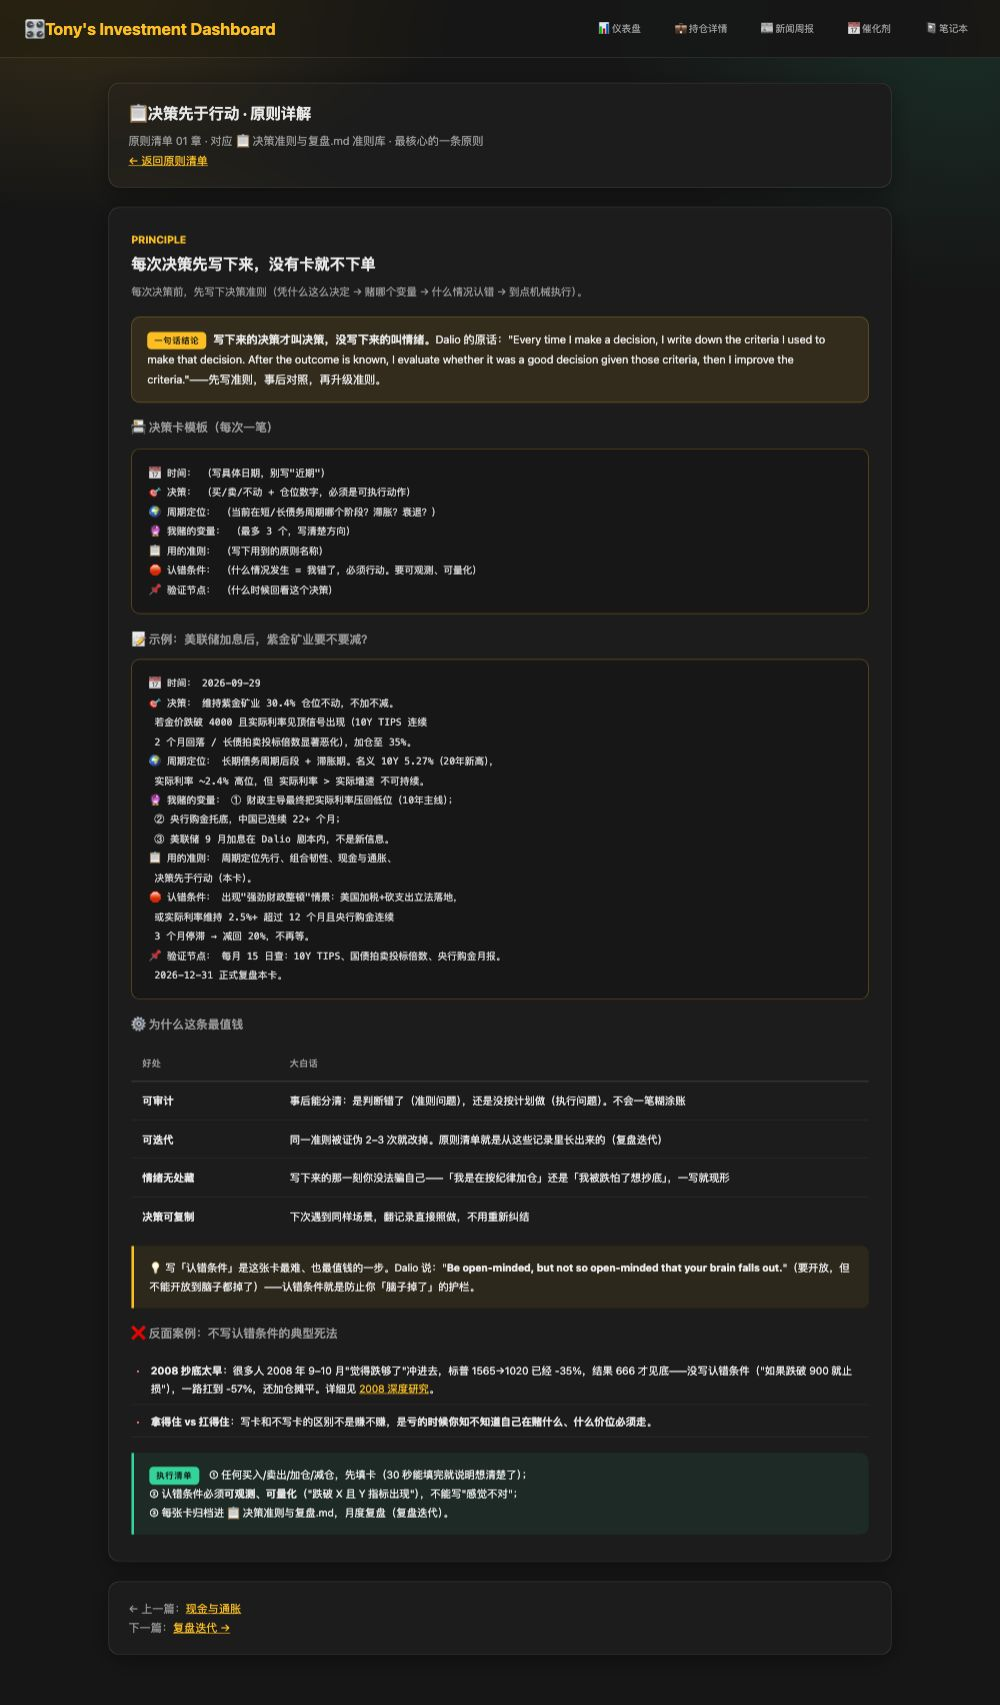
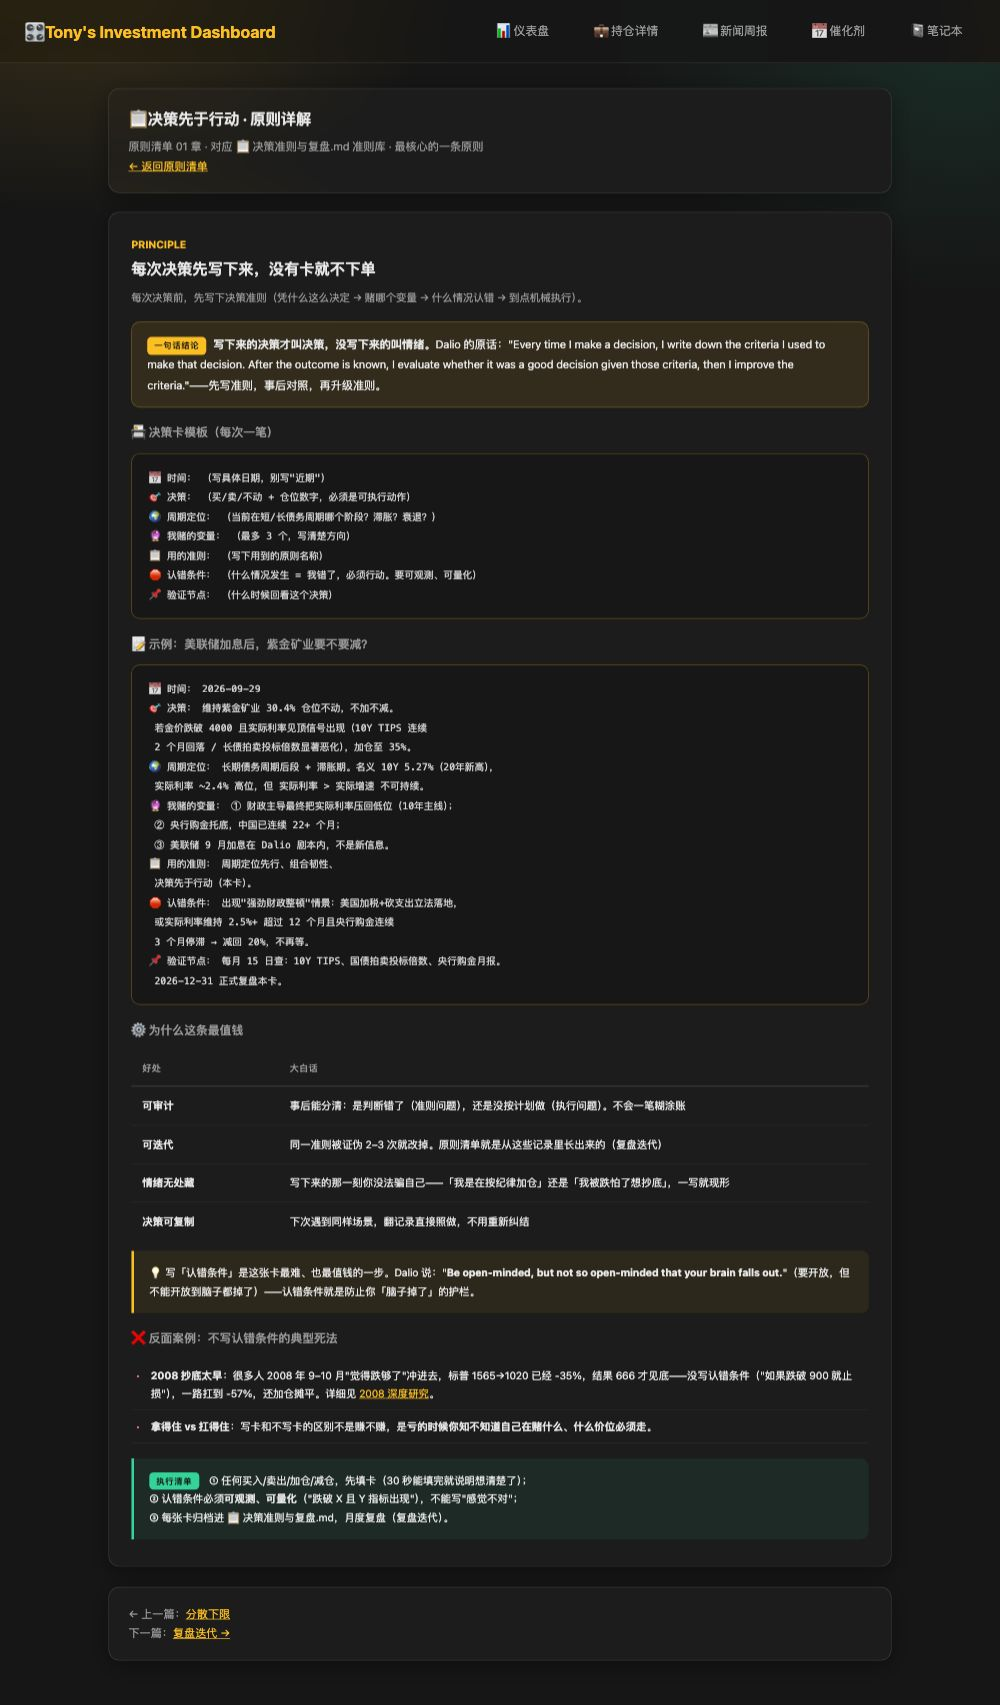
style(pages): 全站25个页面内容宽度统一回1200px（用户偏好）

diff --git a/Dashboard/pages/calendar.html b/Dashboard/pages/calendar.html
@@ -13,7 +13,7 @@
         .nav-links { display: flex; gap: 28px; }
         .nav-links a { color: #9a9a9a; text-decoration: none; font-size: 17px; padding: 10px 18px; border-radius: 8px; transition: all 0.2s; }
         .nav-links a:hover, .nav-links a.active { color: #fbbf24; background: #2c2c2c; }
-        .container { max-width: 1400px; margin: 0 auto; padding: 36px; }
+        .container { max-width: 1200px; margin: 0 auto; padding: 36px; }
         .status-banner { background: #232323; border: 1px solid #3a3a3a; border-radius: 16px; padding: 24px 28px; margin-bottom: 28px; display: flex; justify-content: space-between; flex-wrap: wrap; gap: 16px; }
         .status-item { font-size: 16px; color: #9a9a9a; }
         .status-item strong { color: #eaeaea; font-size: 17px; }

diff --git a/Dashboard/pages/geely.html b/Dashboard/pages/geely.html
@@ -12,7 +12,7 @@
         .nav-links { display: flex; gap: 28px; }
         .nav-links a { color: #9a9a9a; text-decoration: none; font-size: 17px; padding: 10px 18px; border-radius: 8px; transition: all 0.2s; }
         .nav-links a:hover, .nav-links a.active { color: #fbbf24; background: #2c2c2c; }
-        .container { max-width: 1400px; margin: 0 auto; padding: 36px; }
+        .container { max-width: 1200px; margin: 0 auto; padding: 36px; }
         .status-banner { background: #232323; border: 1px solid #3a3a3a; border-radius: 16px; padding: 24px 28px; margin-bottom: 28px; display: flex; justify-content: space-between; flex-wrap: wrap; gap: 16px; }
         .status-item { font-size: 16px; color: #9a9a9a; }
         .status-item strong { color: #eaeaea; font-size: 17px; }

diff --git a/Dashboard/pages/holdings.html b/Dashboard/pages/holdings.html
@@ -14,7 +14,7 @@
         .nav-links { display: flex; gap: 28px; }
         .nav-links a { color: #9a9a9a; text-decoration: none; font-size: 17px; padding: 10px 18px; border-radius: 8px; transition: all 0.2s; }
         .nav-links a:hover, .nav-links a.active { color: #fbbf24; background: #2c2c2c; }
-        .container { max-width: 1400px; margin: 0 auto; padding: 36px; }
+        .container { max-width: 1200px; margin: 0 auto; padding: 36px; }
         .status-banner { background: #232323; border: 1px solid #3a3a3a; border-radius: 16px; padding: 24px 28px; margin-bottom: 28px; display: flex; justify-content: space-between; flex-wrap: wrap; gap: 16px; }
         .status-item { font-size: 16px; color: #9a9a9a; }
         .status-item strong { color: #eaeaea; font-size: 17px; }

diff --git a/Dashboard/pages/news.html b/Dashboard/pages/news.html
@@ -13,7 +13,7 @@
         .nav-links { display: flex; gap: 28px; }
         .nav-links a { color: #9a9a9a; text-decoration: none; font-size: 17px; padding: 10px 18px; border-radius: 8px; transition: all 0.2s; }
         .nav-links a:hover, .nav-links a.active { color: #fbbf24; background: #2c2c2c; }
-        .container { max-width: 1400px; margin: 0 auto; padding: 36px; }
+        .container { max-width: 1200px; margin: 0 auto; padding: 36px; }
         .status-banner { background: #232323; border: 1px solid #3a3a3a; border-radius: 16px; padding: 24px 28px; margin-bottom: 28px; display: flex; justify-content: space-between; flex-wrap: wrap; gap: 16px; }
         .status-item { font-size: 16px; color: #9a9a9a; }
         .status-item strong { color: #eaeaea; font-size: 17px; }

diff --git a/Dashboard/pages/wanzou.html b/Dashboard/pages/wanzou.html
@@ -12,7 +12,7 @@
         .nav-links { display: flex; gap: 28px; }
         .nav-links a { color: #9a9a9a; text-decoration: none; font-size: 17px; padding: 10px 18px; border-radius: 8px; transition: all 0.2s; }
         .nav-links a:hover, .nav-links a.active { color: #fbbf24; background: #2c2c2c; }
-        .container { max-width: 1400px; margin: 0 auto; padding: 36px; }
+        .container { max-width: 1200px; margin: 0 auto; padding: 36px; }
         .status-banner { background: #232323; border: 1px solid #3a3a3a; border-radius: 16px; padding: 24px 28px; margin-bottom: 28px; display: flex; justify-content: space-between; flex-wrap: wrap; gap: 16px; }
         .status-item { font-size: 16px; color: #9a9a9a; }
         .status-item strong { color: #eaeaea; font-size: 17px; }

diff --git a/Dashboard/pages/xiaomi.html b/Dashboard/pages/xiaomi.html
@@ -12,7 +12,7 @@
         .nav-links { display: flex; gap: 28px; }
         .nav-links a { color: #9a9a9a; text-decoration: none; font-size: 17px; padding: 10px 18px; border-radius: 8px; transition: all 0.2s; }
         .nav-links a:hover, .nav-links a.active { color: #fbbf24; background: #2c2c2c; }
-        .container { max-width: 1400px; margin: 0 auto; padding: 36px; }
+        .container { max-width: 1200px; margin: 0 auto; padding: 36px; }
         .status-banner { background: #232323; border: 1px solid #3a3a3a; border-radius: 16px; padding: 24px 28px; margin-bottom: 28px; display: flex; justify-content: space-between; flex-wrap: wrap; gap: 16px; }
         .status-item { font-size: 16px; color: #9a9a9a; }
         .status-item strong { color: #eaeaea; font-size: 17px; }

diff --git a/Dashboard/pages/zijin.html b/Dashboard/pages/zijin.html
@@ -13,7 +13,7 @@
         .nav-links { display: flex; gap: 28px; }
         .nav-links a { color: #9a9a9a; text-decoration: none; font-size: 17px; padding: 10px 18px; border-radius: 8px; transition: all 0.2s; }
         .nav-links a:hover, .nav-links a.active { color: #fbbf24; background: #2c2c2c; }
-        .container { max-width: 1400px; margin: 0 auto; padding: 36px; }
+        .container { max-width: 1200px; margin: 0 auto; padding: 36px; }
         .status-banner { background: #232323; border: 1px solid #3a3a3a; border-radius: 16px; padding: 24px 28px; margin-bottom: 28px; display: flex; justify-content: space-between; flex-wrap: wrap; gap: 16px; }
         .status-item { font-size: 16px; color: #9a9a9a; }
         .status-item strong { color: #eaeaea; font-size: 17px; }

diff --git a/Dashboard/pages/history-1929.html b/Dashboard/pages/history-1929.html
@@ -30,7 +30,7 @@
         .nav-links { display: flex; gap: 28px; }
         .nav-links a { color: #9a9a9a; text-decoration: none; font-size: 17px; padding: 10px 18px; border-radius: 8px; transition: all 0.2s; }
         .nav-links a:hover, .nav-links a.active { color: #fbbf24; background: rgba(255,255,255,0.08); }
-        .container { max-width: 1400px; margin: 0 auto; padding: 36px; }
+        .container { max-width: 1200px; margin: 0 auto; padding: 36px; }
         .status-banner {
             background: rgba(38,38,38,0.38); backdrop-filter: blur(18px) saturate(1.4);
             -webkit-backdrop-filter: blur(18px) saturate(1.4);

diff --git a/Dashboard/pages/history-1945.html b/Dashboard/pages/history-1945.html
@@ -30,7 +30,7 @@
         .nav-links { display: flex; gap: 28px; }
         .nav-links a { color: #9a9a9a; text-decoration: none; font-size: 17px; padding: 10px 18px; border-radius: 8px; transition: all 0.2s; }
         .nav-links a:hover, .nav-links a.active { color: #fbbf24; background: rgba(255,255,255,0.08); }
-        .container { max-width: 1400px; margin: 0 auto; padding: 36px; }
+        .container { max-width: 1200px; margin: 0 auto; padding: 36px; }
         .status-banner {
             background: rgba(38,38,38,0.38); backdrop-filter: blur(18px) saturate(1.4);
             -webkit-backdrop-filter: blur(18px) saturate(1.4);

diff --git a/Dashboard/pages/history-1971.html b/Dashboard/pages/history-1971.html
@@ -30,7 +30,7 @@
         .nav-links { display: flex; gap: 28px; }
         .nav-links a { color: #9a9a9a; text-decoration: none; font-size: 17px; padding: 10px 18px; border-radius: 8px; transition: all 0.2s; }
         .nav-links a:hover, .nav-links a.active { color: #fbbf24; background: rgba(255,255,255,0.08); }
-        .container { max-width: 1400px; margin: 0 auto; padding: 36px; }
+        .container { max-width: 1200px; margin: 0 auto; padding: 36px; }
         .status-banner {
             background: rgba(38,38,38,0.38); backdrop-filter: blur(18px) saturate(1.4);
             -webkit-backdrop-filter: blur(18px) saturate(1.4);

diff --git a/Dashboard/pages/history-1990.html b/Dashboard/pages/history-1990.html
@@ -30,7 +30,7 @@
         .nav-links { display: flex; gap: 28px; }
         .nav-links a { color: #9a9a9a; text-decoration: none; font-size: 17px; padding: 10px 18px; border-radius: 8px; transition: all 0.2s; }
         .nav-links a:hover, .nav-links a.active { color: #fbbf24; background: rgba(255,255,255,0.08); }
-        .container { max-width: 1400px; margin: 0 auto; padding: 36px; }
+        .container { max-width: 1200px; margin: 0 auto; padding: 36px; }
         .status-banner {
             background: rgba(38,38,38,0.38); backdrop-filter: blur(18px) saturate(1.4);
             -webkit-backdrop-filter: blur(18px) saturate(1.4);

diff --git a/Dashboard/pages/history-2008.html b/Dashboard/pages/history-2008.html
@@ -30,7 +30,7 @@
         .nav-links { display: flex; gap: 28px; }
         .nav-links a { color: #9a9a9a; text-decoration: none; font-size: 17px; padding: 10px 18px; border-radius: 8px; transition: all 0.2s; }
         .nav-links a:hover, .nav-links a.active { color: #fbbf24; background: rgba(255,255,255,0.08); }
-        .container { max-width: 1400px; margin: 0 auto; padding: 36px; }
+        .container { max-width: 1200px; margin: 0 auto; padding: 36px; }
         .status-banner {
             background: rgba(38,38,38,0.38); backdrop-filter: blur(18px) saturate(1.4);
             -webkit-backdrop-filter: blur(18px) saturate(1.4);
